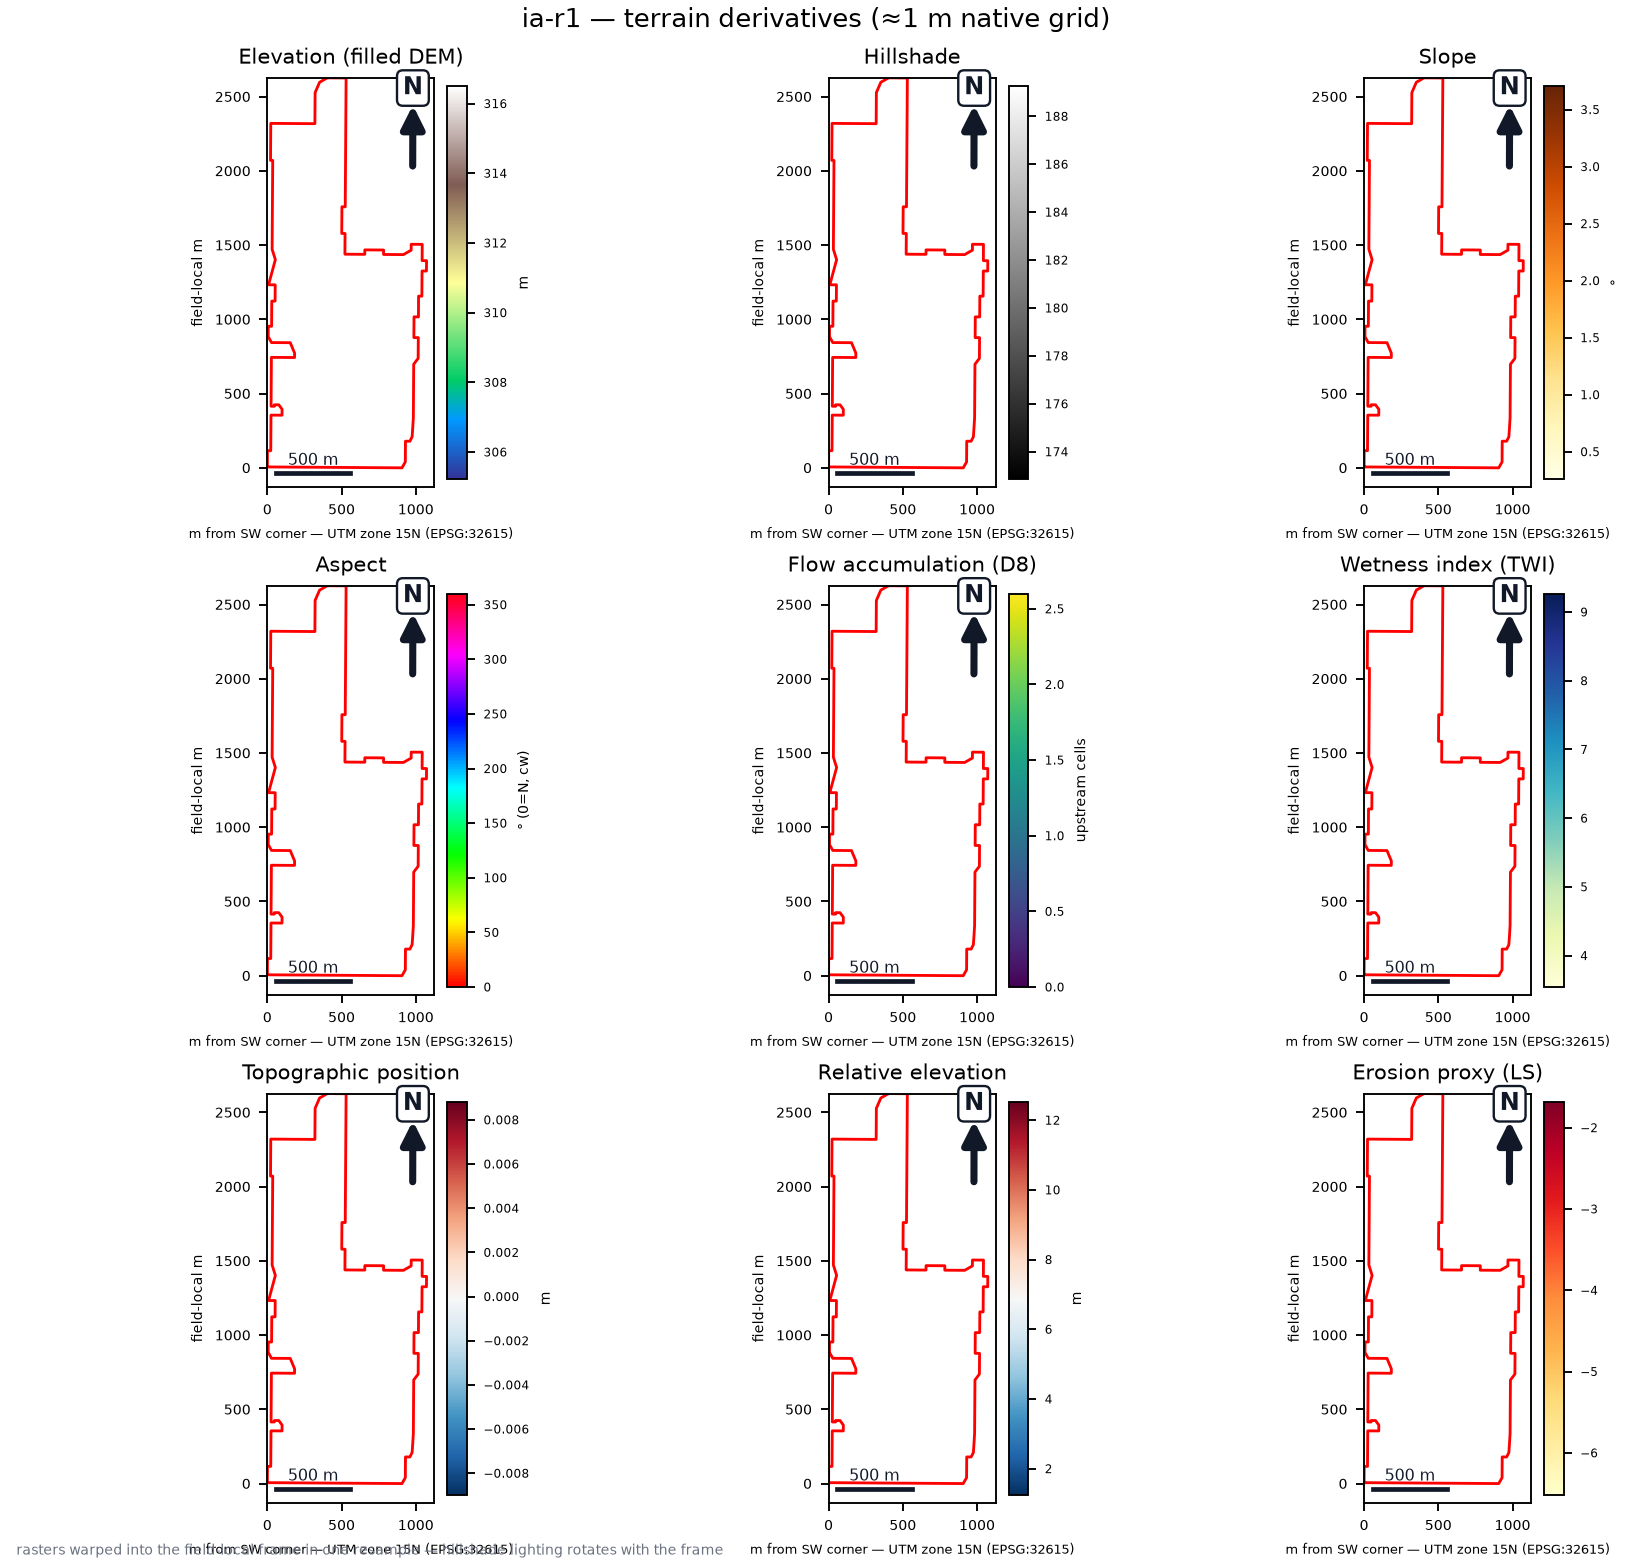
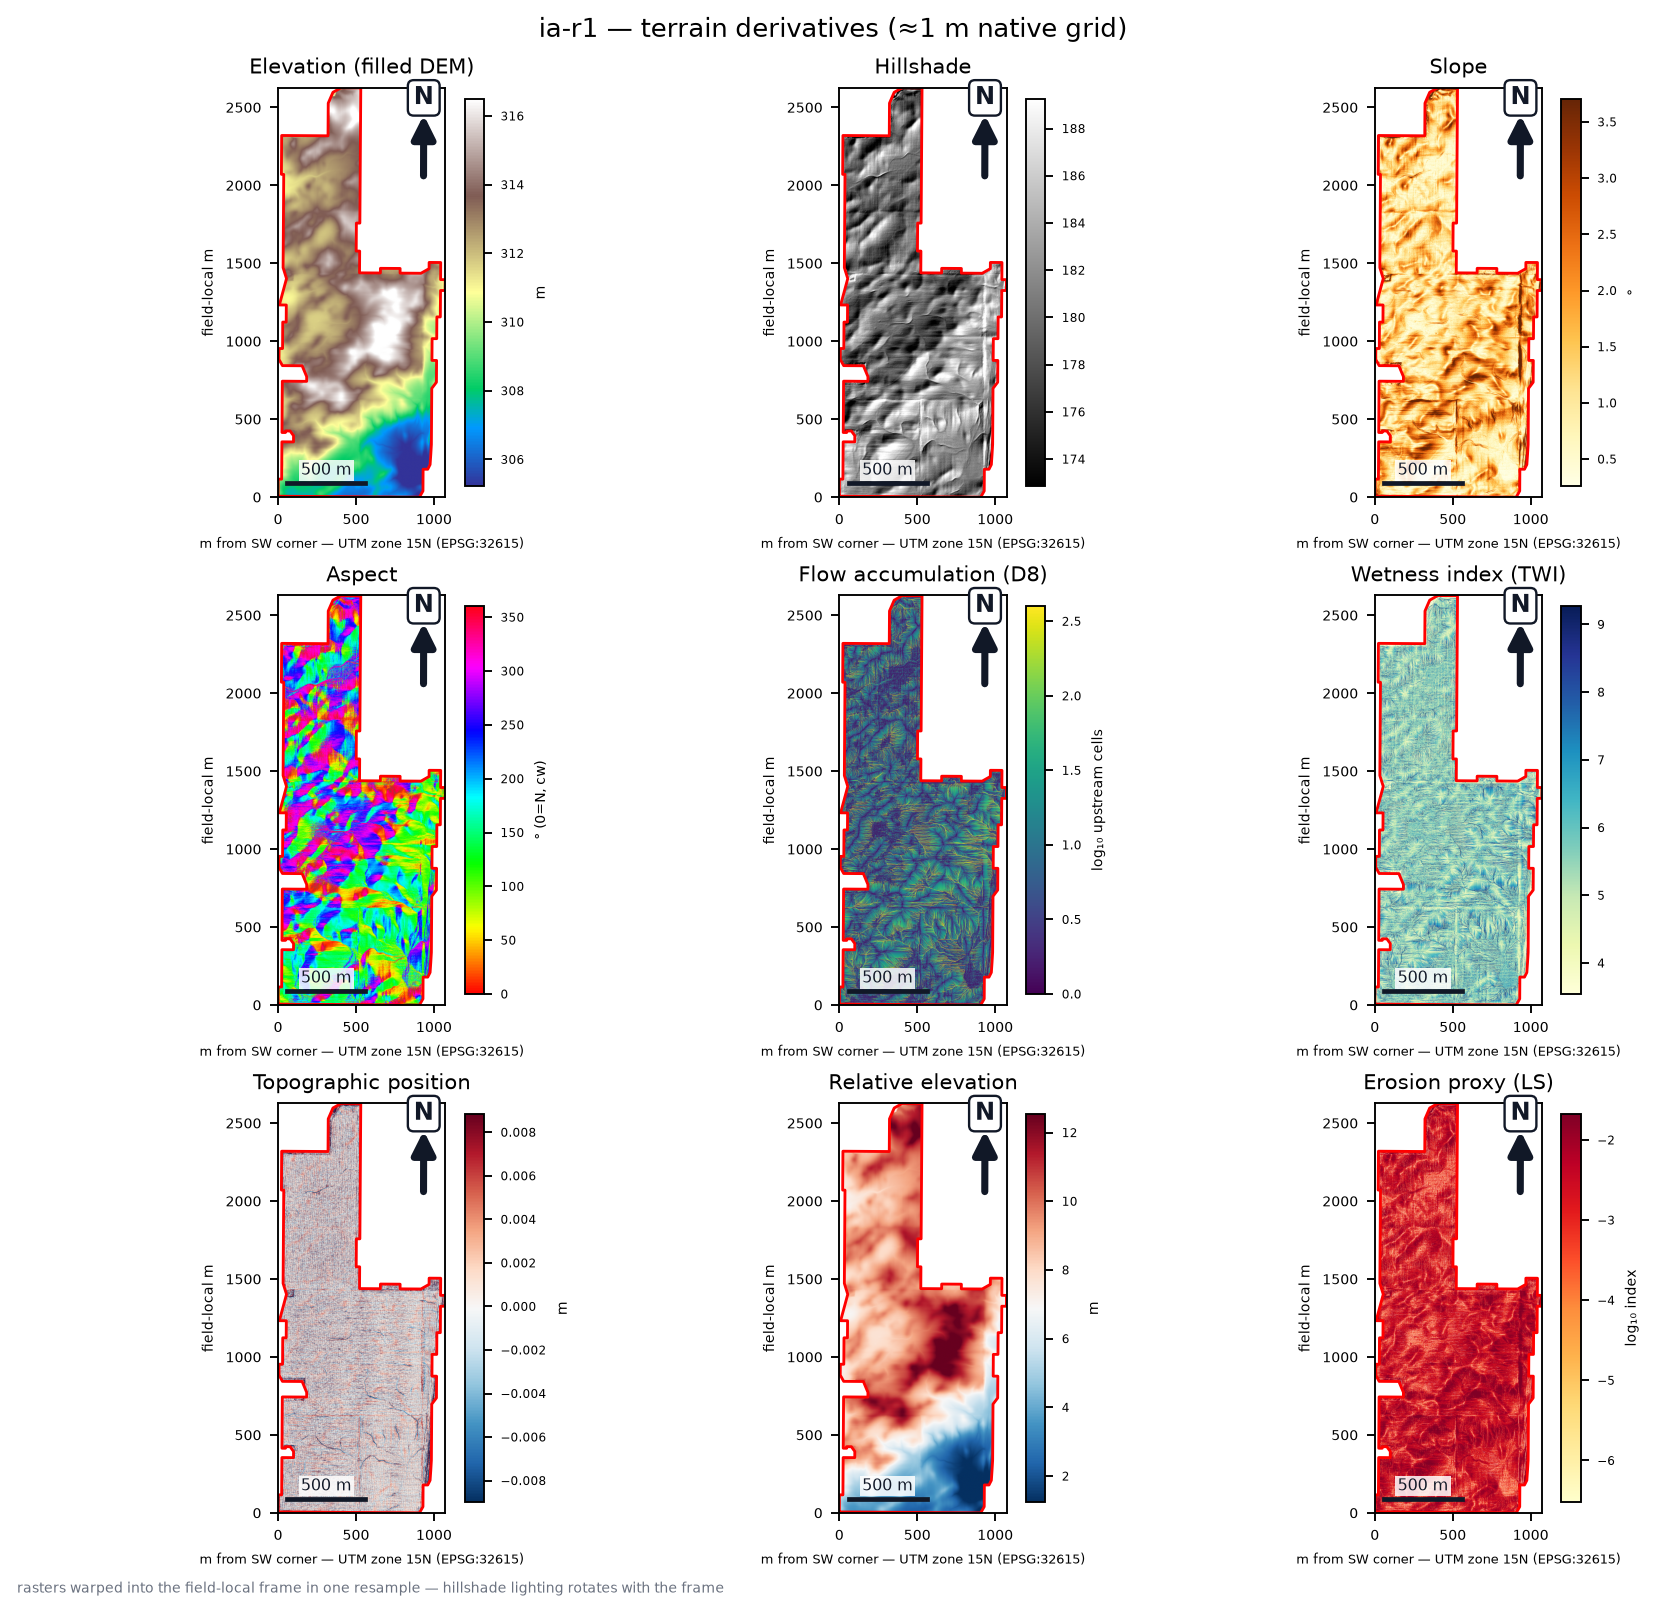
field_frame anchor fix (rotate the re-pin offset by +rot); frame-coord masking; terrain log10 units + footer below figure; year-series honest 'unobserved' split; continuous-vs-categorical scale standard documented; all raster figures re-rendered + vision-QC passed
- frame_for(): e0,n0 = shift + R_ccw(x0r,y0r)  — old e0,n0 = shift + (x0r,y0r)
  sheared the sampling patch by ~rot_rad x |re-pin offset| (km at rot>40: ON
  terrain sampled 3.1 km south of the field). Verified vs in-UTM-polygon DEM
  ground truth: delta <= 0.15 m on il-r1 (-11deg), on-r1 (+56deg), br-r1 (-49deg).
- reproject_into_frame(): mask from frame-coord geometry (anchor-independent);
  UTM-polygon branch retired.
- terrain renderer: imshow extent was (L,B,R,T) -> blank panels despite correct
  colorbars; now mpl (L,R,B,T). log layers' colorbar units say log10. Footer
  moved below the figure (tight bbox) — no more xlabel collision.
- render_worldcereal: unobserved(254) split from no_crop(23) in titles and
  legend ('unobserved / no crop'); Ontario cloud gap now honestly labeled.
- references/field-map-frame.md: continuous-vs-categorical scale standard table.
- gallery + reports/ refreshed for all affected figures.

diff --git a/my-farm-advisor/data-pipeline/src/scripts/lib/field_frame.py b/my-farm-advisor/data-pipeline/src/scripts/lib/field_frame.py
@@ -114,8 +114,14 @@ def frame_for(gdf: gpd.GeoDataFrame, panel_h_in: float, panel_w_in: float,
         gu = gu.assign(geometry=gu.geometry.map(lambda g: affinity.rotate(g, -rot, origin=(0, 0))))
     x0r, y0r, _, _ = gu.total_bounds
     gu = gu.assign(geometry=gu.geometry.translate(xoff=-x0r, yoff=-y0r))
-    # (x0r, y0r) in zone coords = the framed (0,0) corner; inverse-project it
-    e0, n0 = x0 + x0r, y0 + y0r
+    # The framed (0,0) corner sits at (x0r, y0r) IN ROTATED SPACE. Inverting
+    # the framing v = shift + R_ccw(f + rmin) gives the zone-coord anchor
+    #   e0,n0 = (x0,y0) + R_ccw(x0r, y0r)
+    # — rotating the re-pin offset back is mandatory (omitting it shears the
+    # anchor off by ~rot_rad * |rmin|, i.e. km at rot 50+).
+    rpin = math.radians(rot)
+    e0 = x0 + x0r * math.cos(rpin) - y0r * math.sin(rpin)
+    n0 = y0 + x0r * math.sin(rpin) + y0r * math.cos(rpin)
     corner = gpd.GeoDataFrame(geometry=[gpd.points_from_xy([e0], [n0])[0]],
                               crs=epsg).to_crs(4326).geometry.iloc[0]
     # TRUE north in frame coords, numerically (captures grid convergence)
@@ -172,10 +178,17 @@ def reproject_into_frame(ds, f: Frame, dst_res: float, poly_metric=None):
     from rasterio.transform import Affine
 
     r_ = math.radians(f.rot)
-    nr, nc = int(_frame_height(f) / dst_res) + 1, int(_frame_width(f) / dst_res) + 1
+    H = _frame_height(f)
+    nr, nc = int(H / dst_res) + 1, int(_frame_width(f) / dst_res) + 1
     a, b = math.cos(r_) * dst_res, math.sin(r_) * dst_res
-    dst_tr = Affine(a, b, f.e0 - nr * dst_res * math.sin(r_),
-                    b, -a, f.n0 + nr * dst_res * math.cos(r_))
+    # Frame->UTM inverse: E = e0 + x*cos r - y*sin r, N = n0 + x*sin r + y*cos r,
+    # with x = col*res, y = H - row*res (row 0 = north edge). Expanding:
+    #   E = (e0 - H*sin r) + col*(res cos r) + row*(res sin r)
+    #   N = (n0 + H*cos r) + col*(res sin r) + row*(-res cos r)
+    # -> top-left corner in UTM is (e0 - H*sin r, n0 + H*cos r).
+    h_pad = nr * dst_res
+    dst_tr = Affine(a, b, f.e0 - h_pad * math.sin(r_),
+                    b, -a, f.n0 + h_pad * math.cos(r_))
     dst = np.full((nr, nc), np.nan, dtype="float64")
     _src = ds.read(1, masked=True)
     _src = np.ma.masked_invalid(_src.astype("float64"))
@@ -184,15 +197,17 @@ def reproject_into_frame(ds, f: Frame, dst_res: float, poly_metric=None):
         src_transform=ds.transform, src_crs=ds.crs,
         dst_transform=dst_tr, dst_crs=f.epsg,
         resampling=rasterio.warp.Resampling.bilinear)
-    if poly_metric is None:
-        import geopandas as gpd
-        poly_metric = f.geometry.dissolve().geometry.iloc[0]  # already frame coords
-        gm = geometry_mask([poly_metric.__geo_interface__], out_shape=(nr, nc),
-                           transform=Affine(dst_res, 0, 0, 0, -dst_res, nr * dst_res),
-                           invert=True)
-    else:
-        gm = geometry_mask([poly_metric.__geo_interface__], out_shape=(nr, nc),
-                           transform=dst_tr, invert=True)
+    # Mask from the FRAME-coord polygon: exact by construction and independent
+    # of the geographic anchor (passing a UTM polygon here reintroduces every
+    # anchoring/convention bug into a step that has none). poly_metric is kept
+    # in the signature for callers; it is currently unused for masking.
+    _ = poly_metric
+    gm = geometry_mask([f.geometry.dissolve().union_all().__geo_interface__]
+                       if hasattr(f.geometry, "dissolve") else
+                       [f.geometry.__geo_interface__],
+                       out_shape=(nr, nc),
+                       transform=Affine(dst_res, 0, 0, 0, -dst_res, nr * dst_res),
+                       invert=True)
     return np.ma.masked_where(~gm, np.ma.masked_invalid(dst)), (0, nc * dst_res, 0, nr * dst_res)
 
 

diff --git a/my-farm-advisor/data-pipeline/src/scripts/render_worldcereal.py b/my-farm-advisor/data-pipeline/src/scripts/render_worldcereal.py
@@ -54,6 +54,8 @@ def _disp_name(t):
     lab = LABELS[t] if isinstance(t, int) else t
     if lab == "no_crop":
         return "no crop"
+    if lab == "\u25a1_unobserved":
+        return "unobserved"
     return _NICE.get(lab, lab.replace("_", " "))
 
 
@@ -127,7 +129,8 @@ def render_year_series(farm, field, years, season, fname, title):
         hist = np.bincount(arr[inside], minlength=255)
         total = max(int(inside.sum()), 1)
         share = {LABELS[t]: 100.0 * hist[t] / total for t in range(23)}
-        share["no_crop"] = 100.0 * (hist[23] + hist[254]) / total
+        share["no_crop"] = 100.0 * hist[23] / total
+        share["\u25a1_unobserved"] = 100.0 * hist[254] / total
         ranked = sorted(share.items(), key=lambda kv: -kv[1])
         segs, shown = [], 0
         for lab, pct in ranked:
@@ -147,13 +150,13 @@ def render_year_series(farm, field, years, season, fname, title):
         x1, y1 = tfm.transform(geom.bounds[2], geom.bounds[3])
         gdf.boundary.plot(ax=ax, lw=1.8, edgecolor="red")
         for lab, pct in ranked[:3]:
-            if pct >= 3.0 and lab != "no_crop":
+            if pct >= 3.0 and lab not in ("no_crop", "\u25a1_unobserved"):
                 t = LABELS.index(lab)
                 legend_seen[t] = f"{t} {_disp_name(lab)}"
     handles = [Patch(facecolor=PALETTE[t], label=legend_seen[t])
                for t in sorted(legend_seen)]
     handles.append(Patch(facecolor="#ffffff", edgecolor="#8d8d8d",
-                         label="no crop / no data"))
+                         label="unobserved / no crop"))
     fig.legend(handles=handles, loc="lower center", ncol=min(len(handles) + 1, 7),
                fontsize=8, framealpha=.95)
     fig.suptitle(title, fontsize=12, y=.99)
@@ -332,7 +335,7 @@ def render_rdm_overlay(farm, field, year, season, ref_geojson, fname, title,
                 label=f"{_disp_name(t)} ({_hist[t]:,} px)")
           for t in _top if _hist[t] > 0]
     _h.append(Patch(facecolor="#f8f9fa", edgecolor="#9ca3af",
-                    label=f"no crop / no data ({_hist[23] + _hist[254]:,} px)"))
+                    label=f"unobserved / no crop ({_hist[23] + _hist[254]:,} px)"))
     ax_l.legend(handles=_h, fontsize=6.2, loc="center left",
                 bbox_to_anchor=(1.01, .5), framealpha=.95)
     ax_l.set_title(f"model default ({season} {year}, keyless Planetary Computer)",

diff --git a/my-farm-advisor/data-pipeline/src/scripts/reporting/render_terrain_derivatives.py b/my-farm-advisor/data-pipeline/src/scripts/reporting/render_terrain_derivatives.py
@@ -32,11 +32,11 @@ LAYER_ORDER = [
     ("hillshade.tif", "Hillshade", "", "gray", False),
     ("slope_degrees.tif", "Slope", "\u00b0", "YlOrBr", False),
     ("aspect_degrees.tif", "Aspect", "\u00b0 (0=N, cw)", None, False),
-    ("flow_accumulation.tif", "Flow accumulation (D8)", "upstream cells", "viridis", True),
+    ("flow_accumulation.tif", "Flow accumulation (D8)", "log\u2081\u2080 upstream cells", "viridis", True),
     ("topographic_wetness_index.tif", "Wetness index (TWI)", "", "YlGnBu", False),
     ("tpi.tif", "Topographic position", "m", "RdBu_r", False),
     ("relative_elevation.tif", "Relative elevation", "m", "RdBu_r", False),
-    ("erosion_proxy.tif", "Erosion proxy (LS)", "", "YlOrRd", True),
+    ("erosion_proxy.tif", "Erosion proxy (LS)", "log\u2081\u2080 index", "YlOrRd", True),
 ]
 
 
@@ -101,10 +101,10 @@ def main() -> int:
                 vmin, vmax = _vminmax(show)
         if cmap is None:  # aspect: cyclic
             im = ax.imshow(show, cmap="hsv", vmin=0, vmax=360,
-                           extent=[ext[0], ext[2], ext[1], ext[3]], origin="upper")
+                           extent=list(ext), origin="upper")
         else:
             im = ax.imshow(show, cmap=cmap, vmin=vmin, vmax=vmax,
-                           extent=[ext[0], ext[2], ext[1], ext[3]], origin="upper")
+                           extent=list(ext), origin="upper")
         cb = fig.colorbar(im, ax=ax, fraction=0.046, pad=0.03)
         cb.set_label(unit, fontsize=6); cb.ax.tick_params(labelsize=5)
         ff.geometry.dissolve().boundary.plot(ax=ax, color="red", lw=1.2)
@@ -114,10 +114,10 @@ def main() -> int:
         ax.tick_params(labelsize=5.8)
         _fflib.decorate(ax, ff, arrow_r=0.10, arrow_fs=10, callout=False)
     fig.suptitle(f"{args.field} — terrain derivatives ({src_note})", fontsize=11)
-    fig.text(0.01, 0.006, "rasters warped into the field-local frame in one resample \u2014 "
+    fig.text(0.0, -0.012, "rasters warped into the field-local frame in one resample \u2014 "
              "hillshade lighting rotates with the frame", fontsize=6, color="#6b7280")
     args.out.parent.mkdir(parents=True, exist_ok=True)
-    fig.savefig(args.out, dpi=170)
+    fig.savefig(args.out, dpi=170, bbox_inches="tight")
     plt.close(fig)
     print(f"wrote {args.out}")
     return 0

diff --git a/my-farm-advisor/data-pipeline/src/scripts/reporting/generate_soil_grid_maps.py b/my-farm-advisor/data-pipeline/src/scripts/reporting/generate_soil_grid_maps.py
@@ -317,7 +317,9 @@ def render_field(
             cb = fig.colorbar(im, ax=ax, fraction=0.046, pad=0.03)
         cb.set_label(unit, fontsize=6)
         cb.ax.tick_params(labelsize=5.6)
-        mean_v = float(np.nanmean(arr))
+        _d = np.array(np.ma.getdata(arr), copy=True, dtype="float64")
+        _d[np.ma.getmaskarray(arr)] = np.nan
+        mean_v = float(np.nanmean(_d))
         ax.set_title(f"{label} — mean {mean_v:.1f}", fontsize=8.5)
         ff.geometry.dissolve().boundary.plot(ax=ax, color="red", lw=1.4)
         _panel_frame_labels(ax, ff, _fflib)

diff --git a/my-farm-advisor/data-pipeline/references/field-map-frame.md b/my-farm-advisor/data-pipeline/references/field-map-frame.md
@@ -121,3 +121,28 @@ def orient_field(gdf, long_axis: str = "horizontal") -> tuple:
 - Restriction callouts on horizon tables live in a matplotlib **legend box**
   (hatched Patch handles, one entry per band) right of the texture stack —
   hand-placed gutter text provably collides when depth windows nest.
+
+## Continuous vs categorical — the scale standard for every map we publish
+
+Each figure declares its feature type and gets the scale class the literature
+uses for it (no rainbow on continuous fields, no continuous gradient on
+banded soil classes):
+
+| Feature | Type | Scale (standard adopted) |
+| --- | --- | --- |
+| Soil clay/silt/sand %, pH, CEC, OC (gridded) | banded soil classes | **ISRIC SoilGrids `soil.legends` discrete steps** (`BoundaryNorm`, vendored TSVs) — the same breaks ISRIC maps itself |
+| Soil texture class (triangle panel) | categorical (12 classes) | USDA texture-triangle fills, categorical |
+| Crop type / land class | categorical | WorldCereal official palette codes; unknown = white swatch with grey edge |
+| Elevation (DEM) | continuous | `terrain` (green→brown→white→blue) — relief convention, perceptually ordered |
+| Hillshade | continuous | grayscale |
+| Slope, TWI | continuous, positive-skew | sequential (`YlOrBr`, `YlGnBu`) |
+| Flow accumulation, LS | continuous, power-law | sequential on **log10** — axis says so (`log₁₀ upstream cells`) |
+| TPI, relative elevation | continuous, signed about 0 | diverging `RdBu_r`, midpoint at 0 |
+| Aspect | **cyclic** | HSV hue wheel, vmin/vmax fixed 0–360 (a sequential map on a cyclic quantity fakes a seam at N) |
+| NDVI | continuous −1…1 | diverging green↔tan (RdYlGn family), zero at the neutral break |
+
+Rule of thumb encoded in the renderers: if the value can be averaged
+meaningfully and orders spatially → sequential/diverging continuous; if it
+names something → categorical palette from the governing standard; if it is
+already published with official breaks (SoilGrids) → reuse the breaks,
+verbatim. Colorbars then carry units and (for log scales) the transform.
